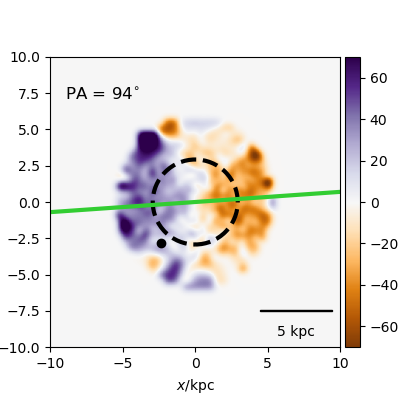
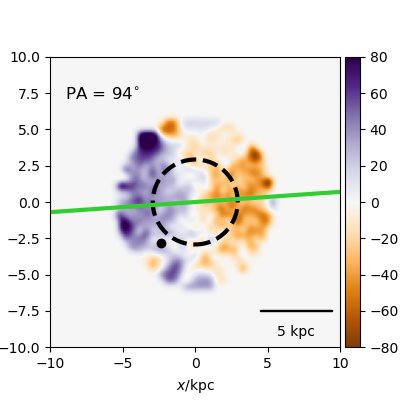
Ray stellar velocity

diff --git a/r239/galaxy239_StelVelR.py b/r239/galaxy239_StelVelR.py
@@ -11,7 +11,7 @@ filename='/mnt/data0/jillian/gguaman/r239/cosmo25p.768sg1bwK1BHe75.007779'
 redshift=0.01
 image_width=20
 
-stellar_map, stellar_pa, ax = plot_manga_map(filename, redshift, "star", weights="mass", image_width=image_width, orientation="sideon", cmap='PuOr', vmin=-70, vmax=70)
+stellar_map, stellar_pa, ax = plot_manga_map(filename, redshift, "star", weights="mass", image_width=image_width, orientation="sideon", cmap='PuOr', vmin=-80, vmax=80)
 
 #plt.show()
 plt.savefig("galaxy239_StelVelR.png")
